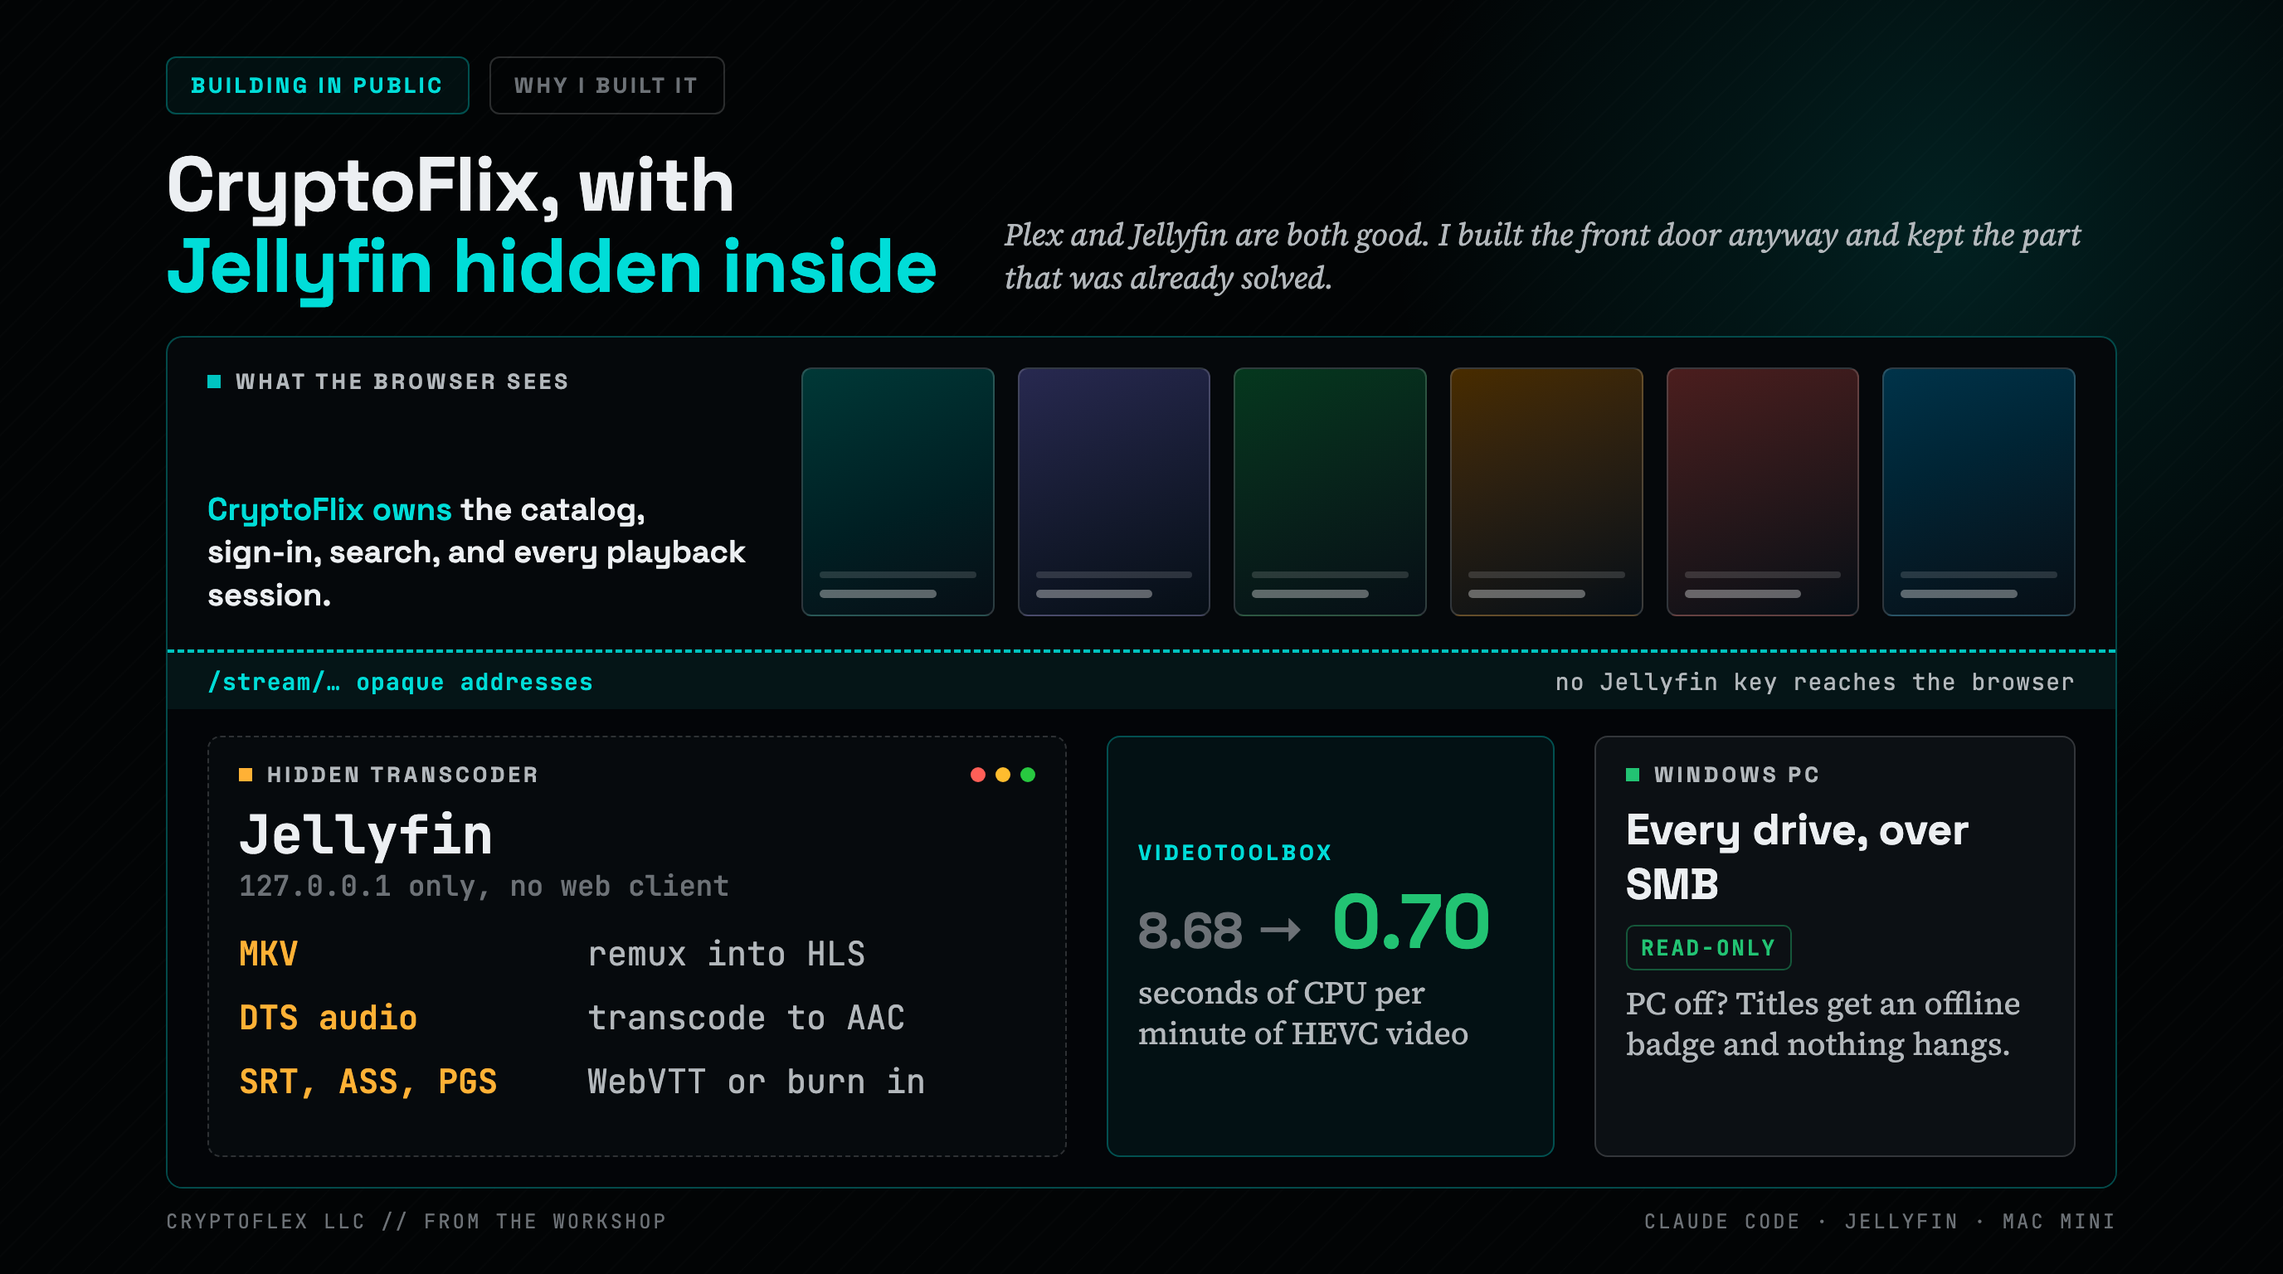
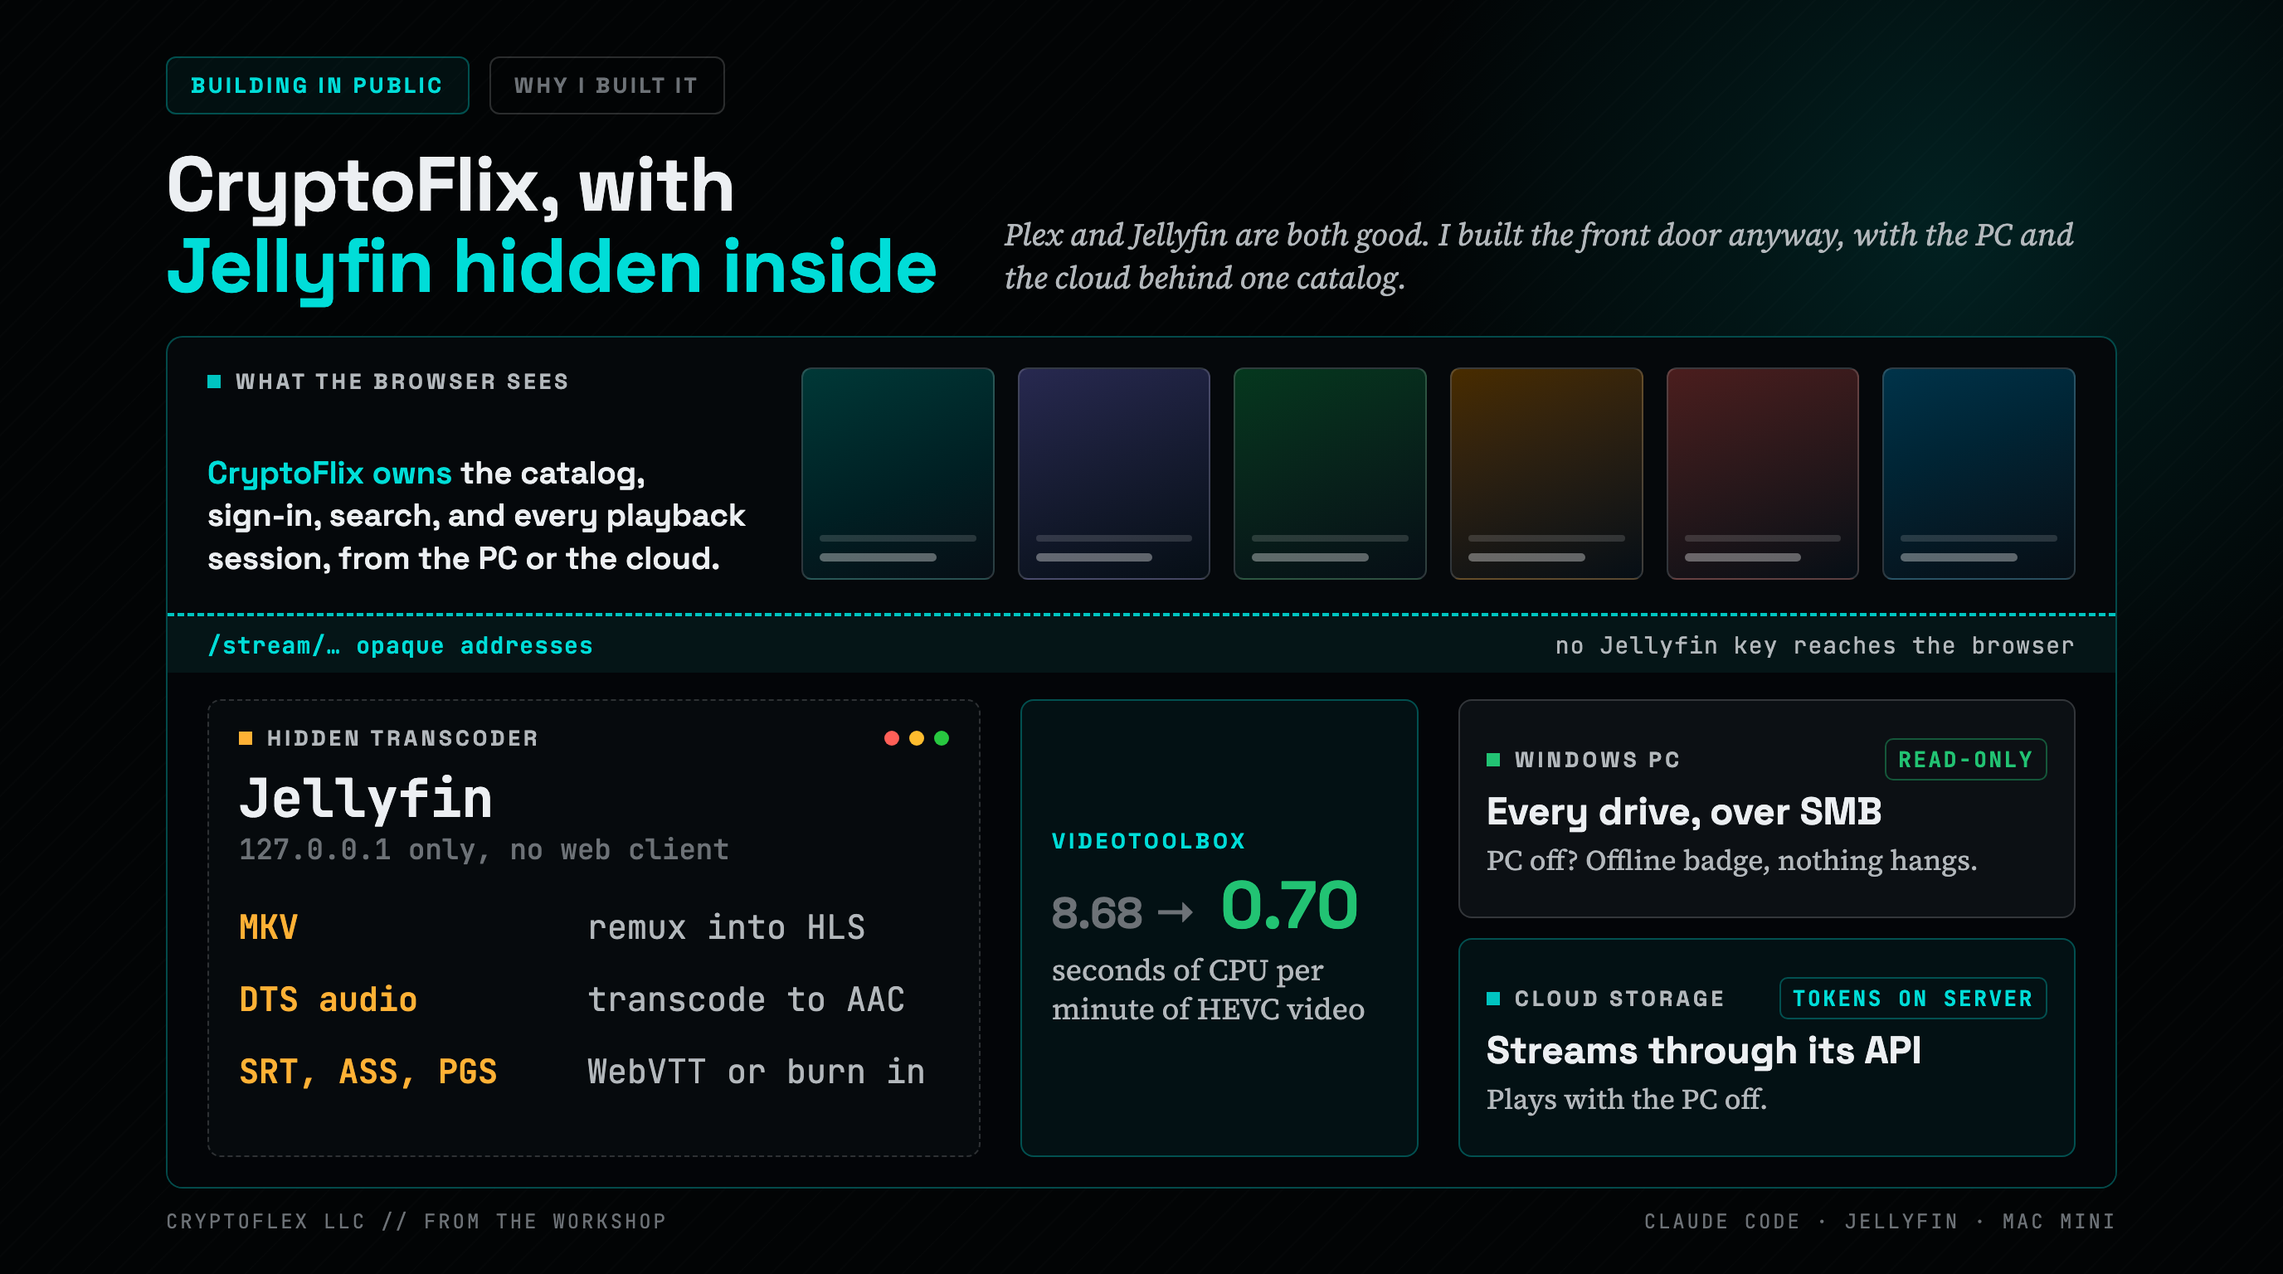
chore: add cloud storage integration to the CryptoFlix flagship draft
Add a section to the Plex, Jellyfin, or Build It Yourself backlog draft
on CryptoFlix's cloud storage source: why it was part of the original
ask, how linking, sync, the shared catalog and the playback proxy work,
and the fixes made after the first live sync. Update related lines in
the intro, comparison table, architecture, timeline, migration and
costs sections, plus the description and reading time.

Visuals: add a cloud storage node and outbound HTTPS edges to the
architecture diagram, relabel the timeline's day-six milestone, add a
TwoSourcesOneCatalogDiagram (registered in the MDX, blog and backlog
component maps), add two demo-library screenshots, and update the
cover and its register row to show the PC and cloud as two sources.

diff --git a/src/components/mdx/diagrams-plex-jellyfin-or-build-it-yourself-cryptoflix.tsx b/src/components/mdx/diagrams-plex-jellyfin-or-build-it-yourself-cryptoflix.tsx
@@ -56,7 +56,8 @@ function Mono({
 /**
  * Browsers reach the Mac Mini over plain HTTP. Inside it a launcher app
  * parents the CryptoFlix server and a hidden Jellyfin. The server reaches
- * the PC over read-only SMB and TMDb over HTTPS.
+ * the PC over read-only SMB, and TMDb and the cloud storage provider's API
+ * over HTTPS. Cloud segments are proxied so no token reaches a browser.
  */
 export function CryptoFlixArchitectureDiagram({ caption }: DiagramProps) {
   const id = "cfx1";
@@ -64,19 +65,19 @@ export function CryptoFlixArchitectureDiagram({ caption }: DiagramProps) {
     <DiagramWrapper
       caption={
         caption ??
-        "Everything lives on the LAN. CryptoFlix owns the catalog, sign-in, and every playback session, while Jellyfin hides on localhost and only converts video the browser cannot play."
+        "The app is reachable only on the LAN, but it calls out over HTTPS to TMDb and to the cloud storage provider's API. CryptoFlix owns the catalog, sign-in, and every playback session, and proxies cloud segments so no token reaches a browser. Jellyfin hides on localhost and only converts video the browser cannot play."
       }
     >
       <EditorialFrame
         id={id}
         w={880}
-        h={600}
+        h={714}
         eyebrow="CryptoFlix Architecture"
         chips={[
-          { label: "LAN only", accent: "amber" },
+          { label: "inbound: LAN only", accent: "amber" },
           { label: "1 user", accent: "cyan" },
         ]}
-        footerRight="Mac Mini · hidden Jellyfin · read-only PC"
+        footerRight="Mac Mini · hidden Jellyfin · PC + cloud"
       >
         {/* Browsers */}
         <NodePanel
@@ -215,43 +216,88 @@ export function CryptoFlixArchitectureDiagram({ caption }: DiagramProps) {
         </Mono>
 
         {/* Server -> PC */}
-        <FlowLine id={id} d="M234,412 L234,486" accent="muted" />
-        <Mono x={222} y={466} anchor="end">
+        <FlowLine id={id} d="M159,412 L159,548" accent="muted" />
+        <Mono x={171} y={490} anchor="start">
           read-only SMB 3
         </Mono>
-        <NodePanel
-          x={24}
-          y={486}
-          w={420}
-          h={70}
-          align="left"
-          title="Windows PC"
-          sub={["every drive shared read-only", "probed every 30 s, runs nothing"]}
-          titleSize={17}
-          subSize={12.5}
-        />
-        <Chip x={430} y={498} label="may be off" accent="amber" anchor="end" fontSize={11} />
+        <NodePanel x={24} y={548} w={270} h={120} accent="muted" align="left" title="">
+          <text
+            x={38}
+            y={578}
+            className="fill-foreground font-heading font-semibold"
+            style={{ fontSize: 17 }}
+          >
+            Windows PC
+          </text>
+          <Mono x={38} y={602} anchor="start">
+            every drive shared read-only
+          </Mono>
+          <Mono x={38} y={621} anchor="start">
+            probed every 30 s, runs nothing
+          </Mono>
+          <Chip x={38} y={634} label="may be off" accent="amber" fontSize={11} />
+        </NodePanel>
 
         {/* Server -> TMDb */}
-        <FlowLine
-          id={id}
-          d="M400,412 L400,452 Q400,460 408,460 L670,460 Q678,460 678,468 L678,486"
-          accent="muted"
-        />
-        <Mono x={540} y={450}>
+        <FlowLine id={id} d="M360,412 L360,548" accent="muted" />
+        <Mono x={350} y={490} anchor="end">
           HTTPS
         </Mono>
         <NodePanel
-          x={500}
-          y={486}
-          w={356}
-          h={70}
+          x={310}
+          y={548}
+          w={200}
+          h={120}
           align="left"
           title="TMDb"
           sub={["titles, cast, genres", "outbound lookups only"]}
           titleSize={17}
           subSize={12.5}
         />
+
+        {/* Server <-> Cloud storage: request out, proxied segments back */}
+        <FlowLine
+          id={id}
+          d="M396,412 L396,502 Q396,510 404,510 L632,510 Q640,510 640,518 L640,548"
+          accent="emerald"
+        />
+        <Mono x={412} y={502} anchor="start">
+          HTTPS · token in a header
+        </Mono>
+        <FlowLine
+          id={id}
+          d="M800,548 L800,474 Q800,466 792,466 L438,466 Q430,466 430,458 L430,412"
+          accent="emerald"
+        />
+        <Mono x={450} y={458} anchor="start">
+          segments proxied · no token to the browser
+        </Mono>
+        <NodePanel
+          x={526}
+          y={548}
+          w={330}
+          h={120}
+          accent="emerald"
+          emphasis
+          align="left"
+          title=""
+        >
+          <text
+            x={540}
+            y={578}
+            className="fill-success font-heading font-semibold"
+            style={{ fontSize: 17 }}
+          >
+            Cloud storage
+          </text>
+          <Mono x={540} y={602} anchor="start">
+            browse and stream only
+          </Mono>
+          <Mono x={540} y={621} anchor="start">
+            HLS after conversion
+          </Mono>
+          <Chip x={540} y={634} label="plays with the PC off" accent="emerald" filled fontSize={11} />
+        </NodePanel>
       </EditorialFrame>
     </DiagramWrapper>
   );
@@ -296,7 +342,7 @@ const DAYS = [
     day: "Thu",
     n: "DAY 6",
     accent: "emerald" as const,
-    lines: ["2nd source type", "browse + binge", "redesign"],
+    lines: ["cloud storage", "source", "browse + binge", "redesign"],
   },
 ];
 
@@ -313,7 +359,7 @@ export function CryptoFlixSixDayTimelineDiagram({ caption }: DiagramProps) {
     <DiagramWrapper
       caption={
         caption ??
-        "Six calendar days from first message to redesign. The app was live on an iPhone on day three with an empty library, and the second source type shipped on day six without losing a row."
+        "Six calendar days from first message to redesign. The app was live on an iPhone on day three with an empty library, and the cloud storage source shipped on day six without losing a row."
       }
     >
       <EditorialFrame
@@ -358,7 +404,7 @@ export function CryptoFlixSixDayTimelineDiagram({ caption }: DiagramProps) {
           accent="emerald"
           emphasis
           title="0 rows lost"
-          sub={["second source type"]}
+          sub={["cloud storage source"]}
           titleSize={17}
           subSize={12.5}
         />
@@ -1118,6 +1164,163 @@ export function ClassicVsNewDesignDiagram({ caption }: DiagramProps) {
           align="left"
           title="Per-browser toggle, defaults to new"
           sub={["saved in localStorage, never sent to the server, so phone and Mac can differ"]}
+          titleSize={17}
+          subSize={12.5}
+        />
+      </EditorialFrame>
+    </DiagramWrapper>
+  );
+}
+
+/* ------------------------------------------------------------------ */
+/* 7. Two sources, one catalog                                         */
+/* ------------------------------------------------------------------ */
+
+/**
+ * PC and cloud lanes feed one Identify step, which lands both files on one
+ * title. A Reach gate then decides which copy plays, PC first.
+ */
+export function TwoSourcesOneCatalogDiagram({ caption }: DiagramProps) {
+  const id = "cfx7";
+  return (
+    <DiagramWrapper
+      caption={
+        caption ??
+        "Two lanes feed one catalog. A cloud file is a row in the same sources table and is identified exactly like a PC file, so one title can hold both copies. Play takes the requested copy if it can, else the other, PC first, which is why the cloud copy plays while the PC is off."
+      }
+    >
+      <EditorialFrame
+        id={id}
+        w={880}
+        h={436}
+        eyebrow="Two Sources, One Catalog"
+        chips={[
+          { label: "no merge step", accent: "cyan" },
+          { label: "PC first", accent: "amber" },
+        ]}
+        footerRight="sources table · identify · reach"
+      >
+        {/* Source lanes */}
+        <NodePanel
+          x={24}
+          y={70}
+          w={270}
+          h={84}
+          accent="cyan"
+          align="left"
+          title="Windows PC"
+          sub={["polled every 2 min", "while online"]}
+          titleSize={17}
+          subSize={12.5}
+        />
+        <NodePanel
+          x={24}
+          y={166}
+          w={270}
+          h={84}
+          accent="emerald"
+          align="left"
+          title="Cloud storage"
+          sub={["full listing every 10 min", "while connected"]}
+          titleSize={17}
+          subSize={12.5}
+        />
+
+        {/* Fan-in bus */}
+        <path d="M294,112 L310,112" fill="none" className="stroke-primary/50" strokeWidth="1.5" />
+        <path d="M294,208 L310,208" fill="none" className="stroke-primary/50" strokeWidth="1.5" />
+        <path d="M310,112 L310,208" fill="none" className="stroke-primary/50" strokeWidth="1.5" />
+        <FlowLine id={id} d="M310,160 L330,160" accent="primary" />
+
+        {/* Identify */}
+        <NodePanel
+          x={330}
+          y={110}
+          w={186}
+          h={100}
+          accent="primary"
+          title="Identify"
+          sub={["same lookup", "for both sources"]}
+          titleSize={17}
+          subSize={12.5}
+        />
+        <FlowLine id={id} d="M516,160 L556,160" accent="primary" />
+
+        {/* One title, two copies */}
+        <NodePanel
+          x={556}
+          y={70}
+          w={300}
+          h={180}
+          accent="primary"
+          emphasis
+          align="left"
+          title=""
+        >
+          <text
+            x={572}
+            y={98}
+            className="fill-primary font-heading font-semibold"
+            style={{ fontSize: 17 }}
+          >
+            One title, two copies
+          </text>
+          <NodePanel
+            x={572}
+            y={112}
+            w={268}
+            h={60}
+            accent="cyan"
+            align="left"
+            title="PC copy"
+            sub={["online, last poll saw it"]}
+            titleSize={15}
+            subSize={12.5}
+          />
+          <NodePanel
+            x={572}
+            y={180}
+            w={268}
+            h={60}
+            accent="emerald"
+            align="left"
+            title="Cloud copy"
+            sub={["connected, last sync saw it"]}
+            titleSize={15}
+            subSize={12.5}
+          />
+        </NodePanel>
+
+        {/* Title -> Reach */}
+        <FlowLine id={id} d="M706,250 L706,296" accent="amber" />
+
+        {/* Reach gate */}
+        <NodePanel
+          x={330}
+          y={296}
+          w={526}
+          h={84}
+          accent="amber"
+          emphasis
+          align="left"
+          title="Reach"
+          sub={["plays if any copy can · PC first", "else: PC offline, not connected, missing"]}
+          titleSize={17}
+          subSize={12.5}
+        />
+
+        {/* Reach -> PC-offline note */}
+        <FlowLine id={id} d="M330,338 L294,338" accent="emerald" dashed />
+        <NodePanel
+          x={24}
+          y={296}
+          w={270}
+          h={84}
+          accent="emerald"
+          variant="dashed"
+          align="left"
+          title="PC offline?"
+          sub={["the cloud copy plays", "PC-only titles show PC offline"]}
           titleSize={17}
           subSize={12.5}
         />

diff --git a/src/app/blog/[slug]/page.tsx b/src/app/blog/[slug]/page.tsx
@@ -108,6 +108,7 @@ import {
   WatchHistoryMigrationDiagram,
   SameVideoElementDiagram,
   ClassicVsNewDesignDiagram,
+  TwoSourcesOneCatalogDiagram,
   LanBoundaryDiagram,
   SubtitleBypassChainDiagram,
   GuardVsRouterDiagram,
@@ -442,6 +443,7 @@ export default async function BlogPostPage({ params }: Props) {
                     WatchHistoryMigrationDiagram,
                     SameVideoElementDiagram,
                     ClassicVsNewDesignDiagram,
+                    TwoSourcesOneCatalogDiagram,
                     LanBoundaryDiagram,
                     SubtitleBypassChainDiagram,
                     GuardVsRouterDiagram,

diff --git a/src/app/backlog/[slug]/page.tsx b/src/app/backlog/[slug]/page.tsx
@@ -124,6 +124,7 @@ import {
   WatchHistoryMigrationDiagram,
   SameVideoElementDiagram,
   ClassicVsNewDesignDiagram,
+  TwoSourcesOneCatalogDiagram,
   LanBoundaryDiagram,
   SubtitleBypassChainDiagram,
   GuardVsRouterDiagram,
@@ -380,6 +381,7 @@ export default async function BacklogPostPage({ params }: Props) {
               WatchHistoryMigrationDiagram,
               SameVideoElementDiagram,
               ClassicVsNewDesignDiagram,
+              TwoSourcesOneCatalogDiagram,
               LanBoundaryDiagram,
               SubtitleBypassChainDiagram,
               GuardVsRouterDiagram,

diff --git a/src/components/mdx/index.ts b/src/components/mdx/index.ts
@@ -162,6 +162,7 @@ export {
   WatchHistoryMigrationDiagram,
   SameVideoElementDiagram,
   ClassicVsNewDesignDiagram,
+  TwoSourcesOneCatalogDiagram,
 } from "./diagrams-plex-jellyfin-or-build-it-yourself-cryptoflix";
 export {
   ControllerPipelineDiagram,

diff --git a/docs/cover-graphics-standards.md b/docs/cover-graphics-standards.md
@@ -95,7 +95,7 @@ designer checks against.
 | astra-home-remodel-3d | The remodel as an editable object: architectural references pass through ChatGPT Work and Astra into a kitchen the owner can inspect and correct | Dominant isolated kitchen model on the right; large headline and vertical references-to-model sequence on the left |
 | replacing-the-default-nextjs-favicon | The favicon slot itself, blown up to browser-chrome scale: a dim before tab carrying the generic triangle-in-circle sits beside a bright active tab carrying the real CryptoFlex shield, with a small tuned 16px pixel-render of the shipped icon as a secondary motif | Full-width macOS-style browser chrome mock (traffic-light titlebar, two tabs, address bar) with a real 16px favicon frame in a bottom callout card beside a single commit-count callout |
 | its-only-on-my-home-network-is-not-a-threat-model | One URL read by two components: the auth guard sees the raw string and skips it, the router decodes it and runs the handler, so /%61pi/status returns 200 with no session | Giant monospace URL with the %61 escape highlighted, forking into guard and router cards, beside a three-spelling request terminal (401, 200, 200) |
-| plex-jellyfin-or-build-it-yourself-cryptoflix | The waterline: CryptoFlix is the storefront the browser sees, with Jellyfin hidden below as a localhost-only transcoder and the read-only PC beside it | Full-width two-layer panel split by a dashed teal /stream waterline: poster wall above, three cards (Jellyfin transcode map, 8.68 to 0.70 CPU callout, PC read-only) below |
+| plex-jellyfin-or-build-it-yourself-cryptoflix | The waterline: CryptoFlix is the storefront the browser sees, with Jellyfin hidden below as a localhost-only transcoder and two sources (the read-only PC and cloud storage) feeding one catalog | Full-width two-layer panel split by a dashed teal /stream waterline: poster wall above, below it the Jellyfin transcode map, an 8.68 to 0.70 CPU callout, and a stacked pair of source cards (PC read-only, cloud storage via its API, plays with the PC off) |
 | what-202-subagents-taught-me-about-code-review | The test that was kinder than reality: the same POST /Startup/User answered 200 by the suite's fake (190/190 green) and 404 by a real Jellyfin the reviewer started | Two stacked request-to-response lanes (green fake, red real), each a terminal request wired to a giant result numeral, with an amber GET-then-POST fix strip below |
 | the-folder-name-that-gave-orders-prompt-injection | A folder name that is an order dressed as a title: it passes the sanitizer and reaches the model verbatim, and only rules Claude Code enforces (not prose) can gate the apply | Large mono folder-name card with highlighted injected order and a two-step sanitizer-to-model trace, beside a three-row who-enforces-it gate ladder (prose NO, ask rule + hook YES, deny rule YES) |
 
